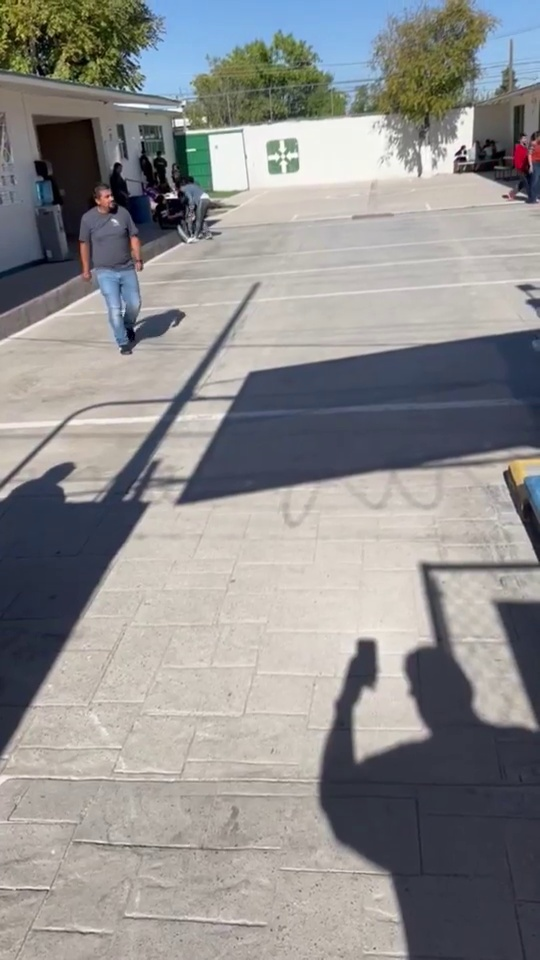
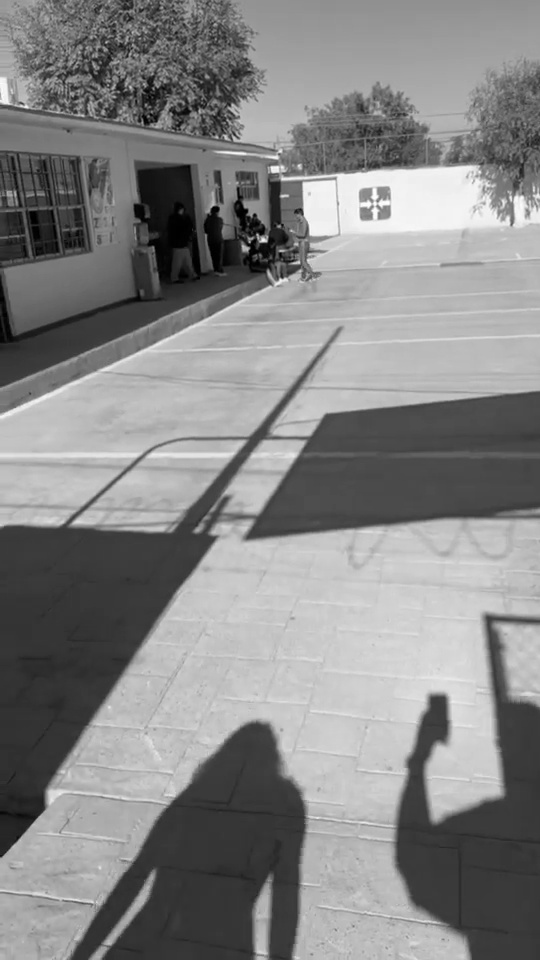
rec .25 not working

diff --git a/mainproj/FaceRec.py b/mainproj/FaceRec.py
@@ -6,15 +6,19 @@ from deepface import DeepFace
 from mainproj.utils.createjson import create_json, append_json
 from mainproj.utils.sendText import SendTxt
 
-
+name = "FACE"
 # cap = cv2.VideoCapture('entrada_2.mp4')
+
+
 def recognize_faces():
-    cap = cv2.VideoCapture('mainproj/VIDEO/salida11.mp4')
+    cap = cv2.VideoCapture('mainproj/VIDEO/salida.mp4')
+    # cap = cv2.VideoCapture(0)
     today = "Lista_alumnos_" + str(datetime.today().day) + "_" + \
         str(datetime.today().month) + "_" + \
         str(datetime.today().year) + "_" + \
         "_.json"
     # str(datetime.today().hour) + "_" + \
+
     # str(datetime.today().minute) + \
     # SendTxt(today)
 
@@ -33,31 +37,32 @@ def recognize_faces():
         # idth = int(frame.shape[1] * scale_percent / 100)
         # height = int(frame.shape[0] * scale_percent / 100)
         # frame = cv2.resize(frame, dim, interpolation = cv2.INTER_AREA)
-        # gray = cv2.cvtColor(frame, cv2.COLOR_BGR2GRAY)
+        gray = cv2.cvtColor(frame, cv2.COLOR_BGR2GRAY)
         try:
-            cv2.imwrite('mainproj/temp/myimage.jpg', frame)
+            cv2.imwrite('mainproj/temp/myimage.jpg', gray)
             dfs = DeepFace.find(img_path='mainproj/temp/myimage.jpg',
                                 db_path='pics',  enforce_detection=False, silent=True)
-
             for ide in range(0, len(dfs)):
                 x = dfs[ide]['source_x'][0]
                 y = dfs[ide]['source_y'][0]
                 w = dfs[ide]['source_w'][0]
                 h = dfs[ide]['source_h'][0]
-                identidad = dfs[ide]['identity'][0].split('/')[1].split('.')[0]
+                identidad = dfs[ide]['identity'][0].split(
+                    '/')[1].split('.')[0]
                 name = dfs[0]['identity'][0].split('\\')[-1].split('/')[0]
-                # jsonpath = dfs[0]['identity'][0].split('/')[1]
-                print('IDENTIDAD')
-                print(dfs[0]['identity'][0].split('\\')[0])
+
                 filepath = os.path.join('pics/' + name + '/data.json')
+
                 with open(filepath, 'r') as fp:
                     information = json.load(fp)
                     if str(information['Alumno'][0]['matricula']) not in lista:
                         # print('alumno ya entro a la escuela')
                         # print(rostro)
-                        matricula = str(information['Alumno'][0]['matricula'])
+                        matricula = str(
+                            information['Alumno'][0]['matricula'])
                         nombre = str(information['Alumno'][0]['nombre'])
-                        apellidos = str(information['Alumno'][0]['apellidos'])
+                        apellidos = str(
+                            information['Alumno'][0]['apellidos'])
                         tel_contacto = str(
                             information['Alumno'][0]['tel_contacto'])
 
@@ -65,26 +70,47 @@ def recognize_faces():
                                     apellidos, tel_contacto)
                         lista.append(
                             str(information['Alumno'][0]['matricula']))
-                if dfs[0]['VGG-Face_cosine'][0] < 0.31:
-                    print(dfs[0]['VGG-Face_cosine'][0])
-                    cv2.putText(frame, name, (x, y - 10),
-                                cv2.FONT_HERSHEY_COMPLEX, 0.5, (0, 255, 0), 1)
-                cv2.rectangle(frame, (x, y), (x+w, y+h), (0, 0, 255), 3)
 
-                org = (50, 50)
-                fontScale = 1
-                color = (255, 0, 0)
-                font = cv2.FONT_HERSHEY_SIMPLEX
-                thickness = 2
-                frame = cv2.putText(frame, identidad, org, font,
-                                    fontScale, color, thickness, cv2.LINE_AA)
-                cv2.imshow('frame', frame)
         except:
             pass
+
+        try:
+
+            org = (10, 50)
+            fontScale = 1
+            color = (255, 68, 51)
+            font = cv2.FONT_HERSHEY_SIMPLEX
+            thickness = 2
+
+            cv2.rectangle(frame, (x, y), (x+w, y+h), (0, 0, 255), 3)
+
+            if x != 0 and dfs[0]['VGG-Face_cosine'][0] < 0.25:
+                obj = DeepFace.verify(
+                    'mainproj/temp/myimage.jpg', dfs[0]['identity'][0])
+                print(obj['verified'])
+                name = dfs[0]['identity'][0].split('\\')[-1].split('/')[0]
+                detect = 'DETECTADO'
+                color = (0, 255, 0)
+            else:
+                name = "Face"
+                detect = "No se puede detectar"
+                color = (0, 0, 255)
+                if x == 0:
+                    color = (255, 255, 255)
+                    detect = "Detectando..."
+            frame = cv2.putText(frame, name, (x, y - 10),
+                                cv2.FONT_HERSHEY_COMPLEX, 0.5, (0, 255, 0), 1)
+
+            frame = cv2.putText(frame, detect, org, font,
+                                fontScale, color, thickness, cv2.LINE_AA)
+        except:
+            print(KeyError)
+        # frame = cv2.putText(frame, name, org, font,
+        cv2.imshow('frame', frame)
         t = cv2.waitKey(1)
         if t == 27:
             break
 
     cv2.destroyAllWindows()
     cap.release()
-    SendTxt(today)
+    # SendTxt(today)

diff --git a/mainproj/utils/createjson.py b/mainproj/utils/createjson.py
@@ -92,6 +92,6 @@ def delobject(name="jose"):
 # print(datetime.date.today())
 # print(str(datetime.date.today().year))
 
-alumno = {"Alumno": []}
-print(type(alumno))
-print(type(alumno['Alumno']))
+# alumno = {"Alumno": []}
+# print(type(alumno))
+# print(type(alumno['Alumno']))
